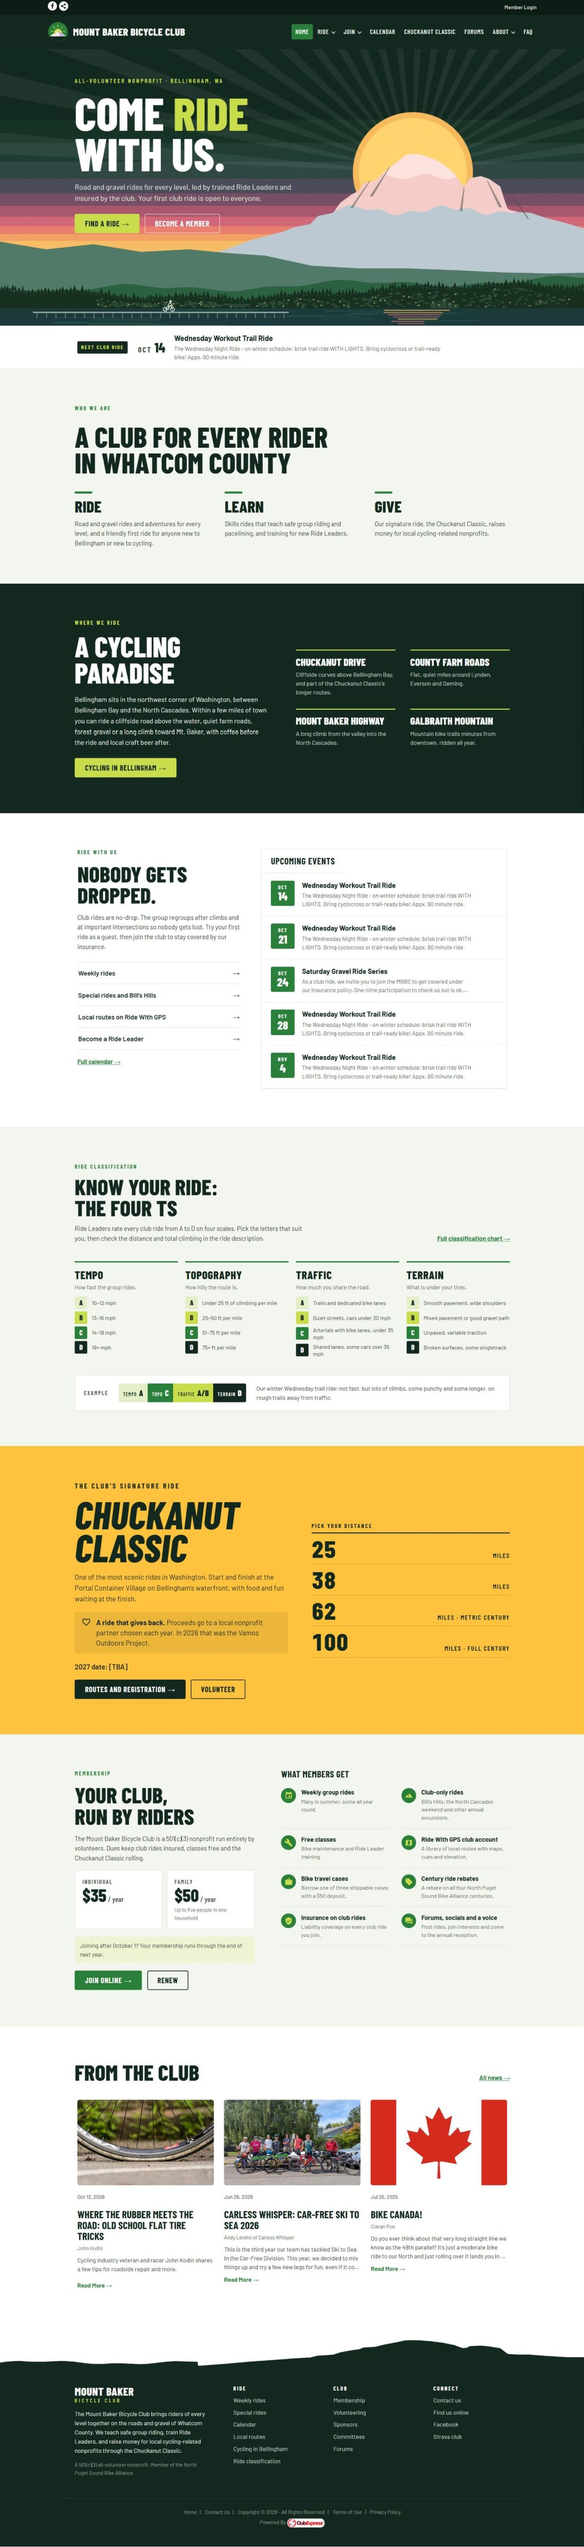
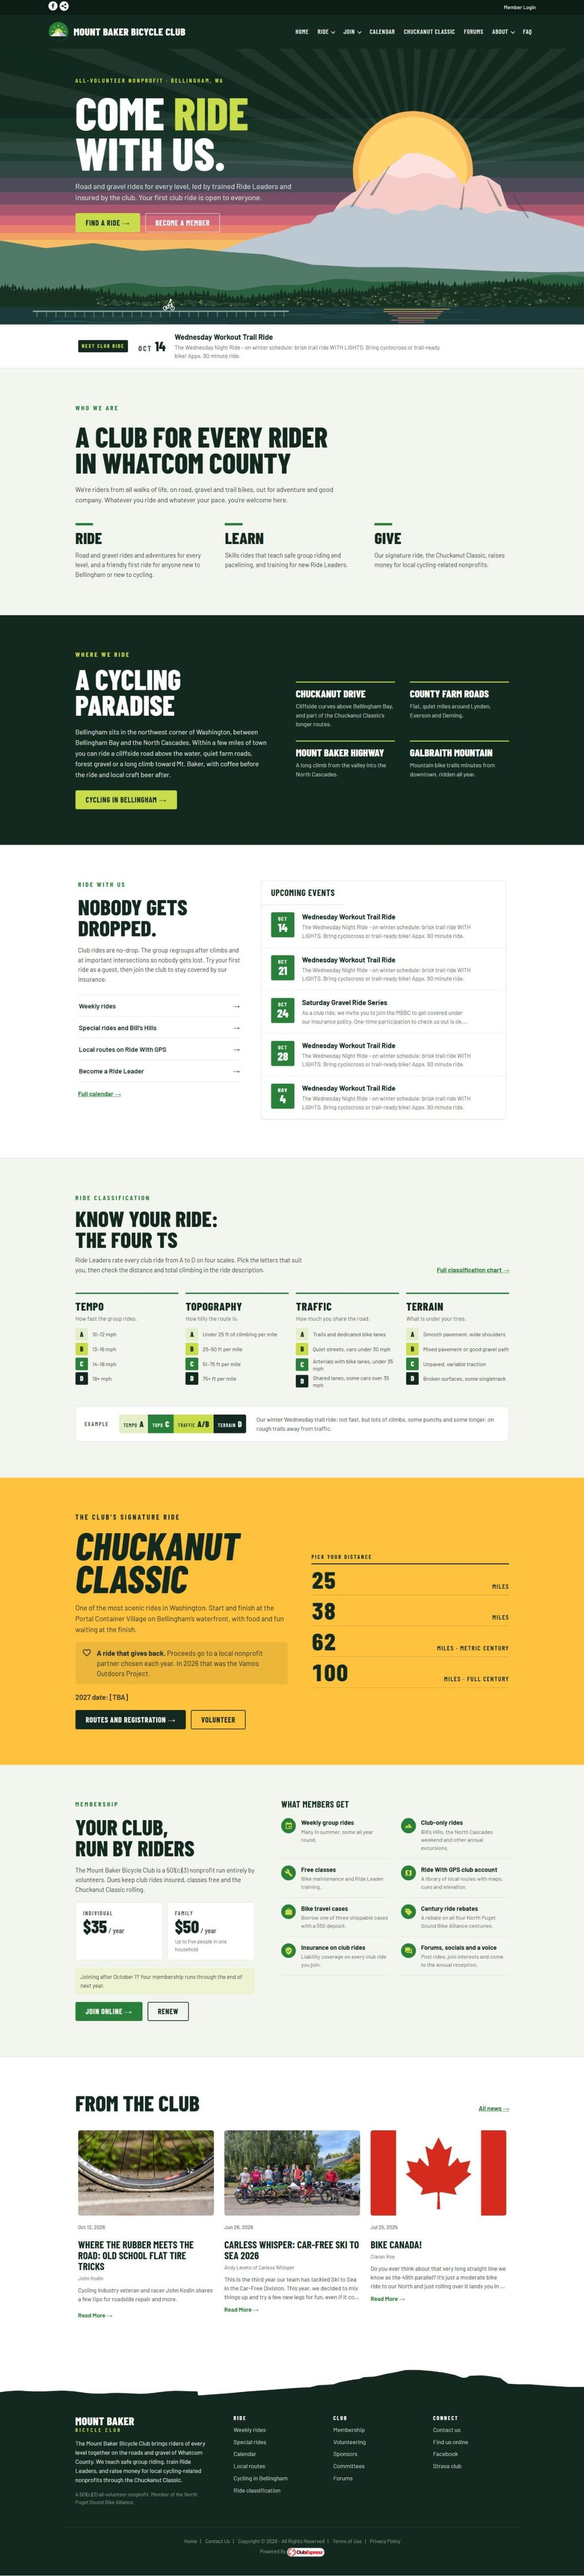
Show the homepage's new words about our members
Who we are now opens with a short paragraph about the people in the
club, above Ride, Learn and Give, and the section labels are larger.

diff --git a/index.html b/index.html
@@ -431,7 +431,7 @@
     <ol class="tour" aria-label="The new homepage, top to bottom">
       <li><span class="num">1</span><span><b>Come ride with us.</b> Mt. Baker at sunrise, with buttons to find a ride or become a member.</span></li>
       <li><span class="num">2</span><span><b>Next club ride</b>, pulled from the calendar automatically.</span></li>
-      <li><span class="num">3</span><span><b>Who we are:</b> Ride · Learn · Give.</span></li>
+      <li><span class="num">3</span><span><b>Who we are:</b> who our members are, then what the club does: Ride · Learn · Give.</span></li>
       <li><span class="num">4</span><span><b>Where we ride:</b> Bellingham as a cycling paradise, from Chuckanut Drive to Galbraith.</span></li>
       <li><span class="num">5</span><span><b>Ride with us:</b> club rides are no-drop and guests are welcome, next to the upcoming club events.</span></li>
       <li><span class="num">6</span><span><b>The Four Ts</b> ride ratings, explained right on the homepage.</span></li>
@@ -449,7 +449,7 @@
       <figure class="shot">
         <figcaption><span class="tag tag-new">Proposed</span>The whole homepage</figcaption>
         <div class="frame">
-          <a href="img/home-after.jpg?v=6"><img src="img/home-after.jpg?v=6" width="1200" height="5226" alt="The proposed homepage, top to bottom: a fir-green header, a hero of Mt. Baker at sunrise reading Come ride with us, the next club ride, Who we are, a dark green Where we ride band, Ride with us beside upcoming club events, the Four Ts ride ratings, a sun-yellow Chuckanut Classic band, membership, club news and a dark green footer."></a>
+          <a href="img/home-after.jpg?v=7"><img src="img/home-after.jpg?v=7" width="1200" height="5285" alt="The proposed homepage, top to bottom: a fir-green header, a hero of Mt. Baker at sunrise reading Come ride with us, the next club ride, Who we are with a few words about our members above Ride, Learn and Give, a dark green Where we ride band, Ride with us beside upcoming club events, the Four Ts ride ratings, a sun-yellow Chuckanut Classic band, membership, club news and a dark green footer."></a>
           <span class="num marker" style="top: 4.4%">1</span>
           <span class="num marker" style="top: 14%">2</span>
           <span class="num marker" style="top: 16%">3</span>
@@ -561,7 +561,7 @@
   <section class="notes" aria-labelledby="h-notes">
     <h2 id="h-notes">Good to know</h2>
     <ul>
-      <li>"Who we are" uses the proposed homepage version of the mission statement, Ride · Learn · Give, which needs the board's approval too.</li>
+      <li>"Who we are" is a draft for the board to agree on: a few words about our members, then Ride · Learn · Give, the proposed homepage version of the mission statement.</li>
       <li>The 2027 Chuckanut Classic date and the dues amounts on the new homepage still need confirming.</li>
       <li>Every page gets the new header and footer, including pages not shown here.</li>
       <li>These screenshots show what a visitor sees on a computer. Members see Member Center and Help Out in the menu, as they do today.</li>
